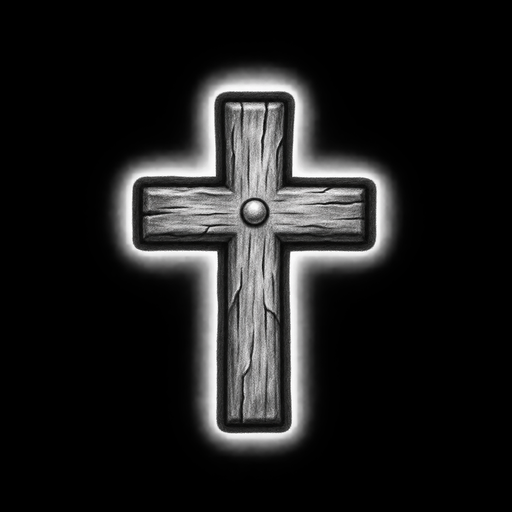
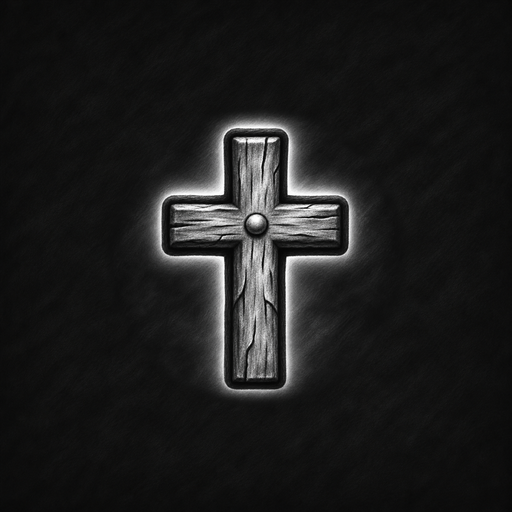
Ícono definitivo de la app: la cruz de ARTE-0006 r02
Aprobado por Exequiel el 2026-11-22 («si la aprobamos»). Íconos de la web instalable (public/app),
de la app de Android (mipmaps) y el de 512 px de la ficha de Play. El original de 1024 px queda en
app-android/herramientas/icono-maestro.png.

Claude-Session: https://claude.ai/code/session_016M1ACmmrSycbcR9b6siodS

Changed region(s): [[0.2188, 0.125, 0.7812, 0.9062]]

diff --git a/app-android/LEEME.md b/app-android/LEEME.md
@@ -14,7 +14,7 @@ reglas de Familias de Google no permiten apps que solo muestran una web (ver `cl
 | `armar-www.mjs` | Arma `www/` (no va a git): la pantalla, una copia de `public/juego` con el service worker de Construct apagado, imágenes y fuentes. |
 | `capacitor.config.json` | Nombre y paquete: **`ar.com.emistudio.mansion`**. El paquete no se puede cambiar después de subir la app a Play. |
 | `android/` | El proyecto de Android Studio. Cambios propios: `MainActivity.java` (pantalla completa y pausa al salir), `AndroidManifest.xml` (horizontal y vibración), `res/values-es/strings.xml` (nombre en castellano), íconos y splash. |
-| `herramientas/iconos_android.py` | Rearma los íconos y el splash desde un ícono maestro. **Los de ahora son provisorios** (la cruz): el definitivo sale de ARTE-0006. |
+| `herramientas/iconos_android.py` | Rearma los íconos y el splash desde un ícono maestro. El maestro es `herramientas/icono-maestro.png`: ARTE-0006 r02, aprobado por Exequiel el 2026-11-22. |
 
 ## Armar y probar (en la PC)
 

diff --git a/app-android/play/FICHA.md b/app-android/play/FICHA.md
@@ -64,7 +64,7 @@ Los nombres de los jefes en inglés (the Shadow, the Stalker, the Psycho) son lo
 
 | Pieza | Estado |
 |---|---|
-| Ícono 512×512 | **FALTA**: sale de ARTE-0006 (elige Emi). Claude lo arma con `herramientas/iconos_android.py` y para la web. |
+| Ícono 512×512 | Listo: `play/icono-play-512.png` (PNG de 32 bits), de ARTE-0006 r02, aprobado por Exequiel el 2026-11-22 («si la aprobamos»). |
 | Gráfico destacado 1024×500 | **FALTA**: no se puede armar bien recortando la portada (tiene los marcos de los botones). Propuesta: pedido de arte ARTE-0007 a Codex, después del ícono. |
 | Capturas del teléfono | 6 por idioma en `capturas/es` y `capturas/en`: menú, dificultad, piso 3, piso 2, logros (1920×1080) y el juego con los botones táctiles (1920×960, 2:1). Sacadas del juego 27-14 con el motor. Los logros y el mejor tiempo de esa captura están puestos a mano para que se vean. Se pueden reemplazar por capturas propias del celular. |
 

diff --git a/README.md b/README.md
@@ -94,6 +94,6 @@ Desde la página de la mansión o desde `/jugar`, el navegador ofrece **Instalar
 - `public/jugar-sw.js`: guarda la página para que la app abra sin internet. El juego lo guarda aparte el
   service worker de Construct (`/juego/sw.js`). Si alguna vez hay que borrar lo guardado en todos los aparatos,
   se cambia `CACHE` en ese archivo.
-- `public/app/`: los íconos de la app. **Los de ahora son provisorios** (la cruz del juego): el ícono nuevo
-  es el pedido de arte ARTE-0006, que elige Emi.
+- `public/app/`: los íconos de la app, sacados del ícono de ARTE-0006 r02 (la cruz sobre carbonilla),
+  aprobado por Exequiel el 2026-11-22. El original de 1024 px está en `app-android/herramientas/icono-maestro.png`.
 
